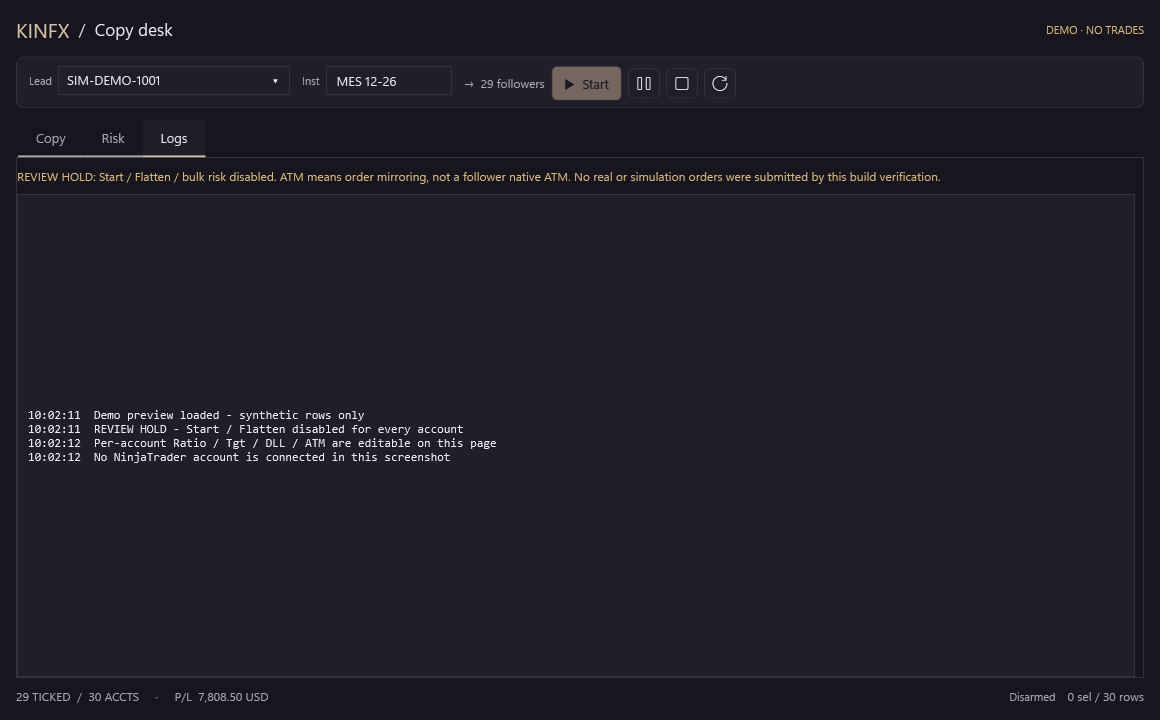
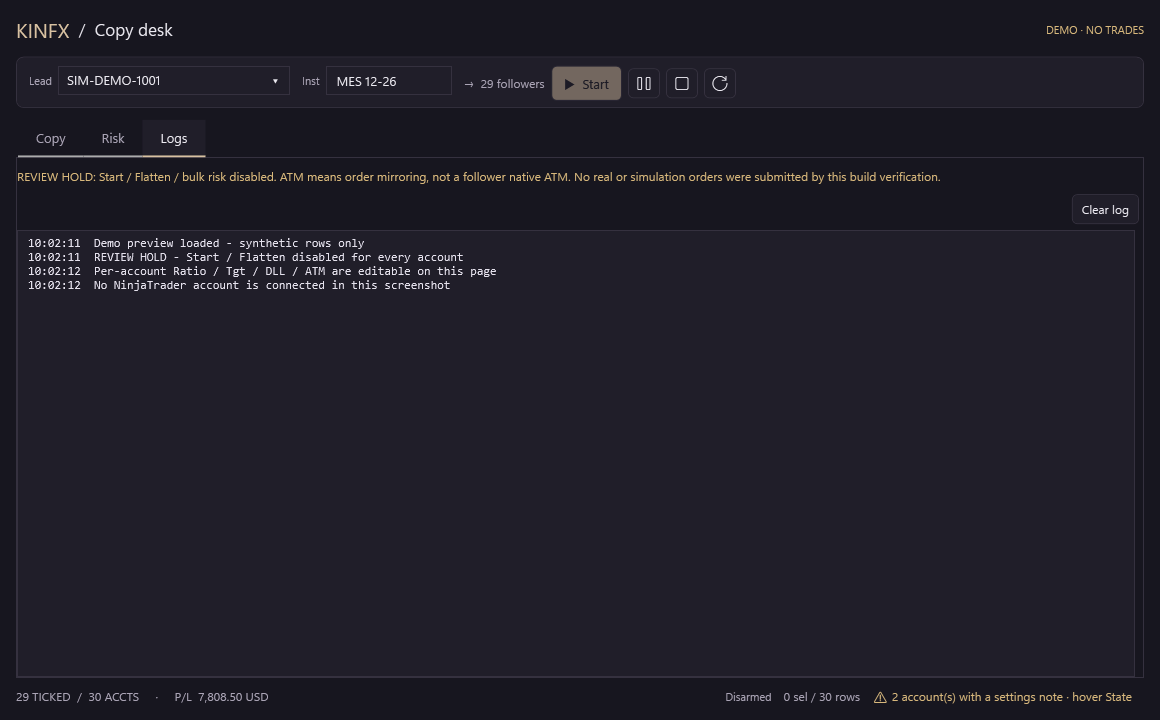
Settings notes (advisory), readable Logs + Clear log, Ratio-cell width test; screenshots refreshed

diff --git a/src/AddOns/KINFXTradeCopier.cs b/src/AddOns/KINFXTradeCopier.cs
@@ -27,6 +27,26 @@ namespace NinjaTrader.NinjaScript.AddOns.Kinfx
         public static bool CanExecute(string command)
         { return command!="start" && command!="flattenSelected" && command!="flattenAll" && command!="batch"; }
     }
+    // Advisory text for settings that are legal but easy to misread. Pure: no account, engine or dispatch access.
+    // Returns "" when there is nothing to say. Never blocks anything; it only informs.
+    public static class SettingsAdvice
+    {
+        public static string For(RiskSettings s,string role,int referenceLots)
+        {
+            if(s==null||role=="Leader")return "";
+            if(!RiskPolicy.Finite(s.Ratio)||s.Ratio<=0)return "Ratio is not a positive number";
+            var notes=new System.Collections.Generic.List<string>();
+            if(s.Target<=0&&s.Loss<=0)notes.Add("no daily target and no daily loss limit (0 = off)");
+            else if(s.Loss<=0)notes.Add("no daily loss limit (0 = off)");
+            else if(s.Target<=0)notes.Add("no daily target (0 = off)");
+            if(referenceLots>0)
+            {
+                if(RiskPolicy.Quantity(referenceLots,s.Ratio)==0)notes.Add("Ratio gives 0 lots for a "+referenceLots+"-lot leader order");
+                else if(s.MaxContracts>0&&RiskPolicy.Quantity(referenceLots,s.Ratio)>s.MaxContracts)notes.Add("size capped by Max "+s.MaxContracts);
+            }
+            return string.Join("; ",notes);
+        }
+    }
     // Bulk-edit helpers: pure input grammar only. No account, engine or dispatch access.
     public static class BulkEdit
     {
@@ -1037,7 +1057,10 @@ namespace NinjaTrader.NinjaScript.AddOns.Kinfx
         public string AccountSuffix {get{string n=Name??"";return n.Length>12?n.Substring(n.Length-4):"";}}
         public string StateLabel {get{return DisablePending?"Cancelling":FollowPending?"Rechecking":Latch.Locked?"Locked":Status=="Telemetry error"?"Error":Paused?"Paused":Role=="Leader"?"Leader":Status=="Active"&&Enabled?"Copying":Connection=="Disconnected"?"Offline":Status=="Demo only"?"Demo":Enabled?"Selected":"Off";}}
         public Brush StateInk {get{return DisablePending?DashboardView.Warn:Latch.Locked||Status=="Telemetry error"?DashboardView.Bad:StateLabel=="Copying"?DashboardView.Good:Paused?DashboardView.Warn:DashboardView.Muted;}}
-        public string StateDetail {get{return Name+" · "+Role+" · "+Status+(DisablePending?" · cancellation not confirmed":"")+(Latch.Locked?" · "+Latch.Reason:"")+" · "+Currency;}}
+        // Advisory only (never blocks). Reference lot size is the dashboard's current reference; see SettingsAdvice.
+        internal static int AdviceReferenceLots=2;
+        public string Advice {get{return SettingsAdvice.For(Settings,Role,AdviceReferenceLots);}}
+        public string StateDetail {get{return Name+" · "+Role+" · "+Status+(DisablePending?" · cancellation not confirmed":"")+(Latch.Locked?" · "+Latch.Reason:"")+(Advice.Length>0?" · NOTE: "+Advice:"")+" · "+Currency;}}
         public string Alias { get {return Settings.Alias;} set {Settings.Alias=value ?? "";} }
         public string Group { get {return Settings.Group;} set {Settings.Group=value ?? "";} }
         public double Ratio { get {return Settings.Ratio;} set {if(!RiskPolicy.Finite(value)||value<=0)throw new ArgumentException("This account Ratio must be finite and > 0");Settings.Ratio=value;Changed();} }
@@ -1068,12 +1091,14 @@ namespace NinjaTrader.NinjaScript.AddOns.Kinfx
         readonly ICollectionView view;
         readonly TextBox search;
         readonly ComboBox filter;
-        readonly TextBlock summary,selection;
+        readonly TextBlock summary,selection;TextBlock adviceLine;
         readonly bool demo;
         readonly List<Button> editButtons=new List<Button>(); StackPanel bulkBar;
         bool editable=true;
         public string SearchText {get{return search.Text;}set{search.Text=value;}}
         public int VisibleCount {get{return view.Cast<AccountRow>().Count();}}
+        public int AdviceCount {get{return Rows.Count(r=>r.Role!="Leader"&&r.Advice.Length>0);}}
+        public string AdviceText {get{int n=AdviceCount;return n==0?"":"⚠ "+n+" account(s) with a settings note · hover State";}}
         static Brush Brush(string c){var b=(Brush)new BrushConverter().ConvertFromString(c);b.Freeze();return b;}
         public static readonly Brush Ink=Brush("#ECEAF1"),Muted=Brush("#AAA4B5"),Panel=Brush("#201E29"),Line=Brush("#35313F"),Accent=Brush("#D8C1A1"),Canvas=Brush("#17161F"),Good=Brush("#83C7A3"),Warn=Brush("#D8B87C"),Bad=Brush("#D98792"),Off=Brush("#00514C5C");
         static TextBlock Text(string s,double size=12,Brush color=null){return new TextBlock{Text=s,FontSize=size,Foreground=color??Ink,VerticalAlignment=VerticalAlignment.Center};}
@@ -1219,8 +1244,8 @@ namespace NinjaTrader.NinjaScript.AddOns.Kinfx
             RiskGrid=GridTable();Column(RiskGrid,"Acct","Name",155,true,"Broker account");Column(RiskGrid,"Alias","Alias",115,false,"Display alias");Column(RiskGrid,"Grp","Group",90,false,"Account group");Column(RiskGrid,"Tgt","Target",85,false,"Daily local profit target · 0 = off",null,true);Column(RiskGrid,"DLL","Loss",85,false,"Daily loss limit · positive value / 0 = off",null,true);Column(RiskGrid,"Max","MaxContracts",60,false,"Maximum exact-instrument contracts",null,true);RatioColumn(RiskGrid);Column(RiskGrid,"P/L","Pnl",95,true,"Observed session P/L","N2",true);Column(RiskGrid,"CCY","Currency",55,true,"Account currency");Column(RiskGrid,"Tgt Δ","TargetRemaining",80,true,"Amount remaining to daily target",null,true);Column(RiskGrid,"DLL Δ","LossRemaining",80,true,"Loss headroom",null,true);Column(RiskGrid,"Qty","Position",50,true,"Signed position",null,true);Column(RiskGrid,"Conn","Connection",100,true,"Connection status");Column(RiskGrid,"St","Status",160,true,"Copier / risk state");Column(RiskGrid,"Preset","Preset",200,true,"Editable firm template");Column(RiskGrid,"Cons","ConsistencyAdvice",160,true,"Consistency advisory · not a broker guarantee");
             var action=new FrameworkElementFactory(typeof(Button));CompactCellButton(action,28);action.SetValue(Control.TemplateProperty,OffTemplate());action.SetValue(ContentControl.ContentProperty,"\uE713");action.SetValue(Control.FontFamilyProperty,new FontFamily("Segoe Fluent Icons, Segoe MDL2 Assets"));action.SetValue(Control.BackgroundProperty,Panel);action.SetValue(Control.ForegroundProperty,Ink);action.SetValue(Control.BorderBrushProperty,Line);action.SetValue(Control.PaddingProperty,new Thickness(4,1,4,1));action.SetValue(FrameworkElement.ToolTipProperty,"Account risk / template / history");var gearStyle=new Style(typeof(Button));var gearLocked=new DataTrigger{Binding=new Binding("IsReadOnly"){RelativeSource=new RelativeSource(RelativeSourceMode.FindAncestor,typeof(DataGrid),1)},Value=true};gearLocked.Setters.Add(new Setter(UIElement.IsEnabledProperty,false));gearStyle.Triggers.Add(gearLocked);action.SetValue(FrameworkElement.StyleProperty,gearStyle);action.AddHandler(ButtonBase.ClickEvent,new RoutedEventHandler((s,e)=>{if(!editable){e.Handled=true;return;}var r=(s as FrameworkElement).DataContext as AccountRow;if(r!=null&&RowSettings!=null)RowSettings(r);}));RiskGrid.Columns.Add(new DataGridTemplateColumn{Header="⚙",Width=40,CellTemplate=new DataTemplate{VisualTree=action}});AddRow(risk,RiskGrid,1);
             AddRow(risk,new TextBlock{Text="OFF cancels owned entries, retains exits · Re-follow explicit / only when clean · ATM OFF may be unprotected · Local guards only",Foreground=Muted,FontSize=11,TextWrapping=TextWrapping.Wrap,Margin=new Thickness(0,10,0,0)},2);Sections.Items.Add(new TabItem{Header="Risk",Content=risk});
-            var logPanel=new Grid();logPanel.RowDefinitions.Add(new RowDefinition{Height=GridLength.Auto});logPanel.RowDefinitions.Add(new RowDefinition{Height=new GridLength(1,GridUnitType.Star)});AddRow(logPanel,new TextBlock{Text="REVIEW HOLD: Start / Flatten / bulk risk disabled. ATM means order mirroring, not a follower native ATM. No real or simulation orders were submitted by this build verification.",Foreground=Warn,FontSize=12,TextWrapping=TextWrapping.Wrap,Margin=new Thickness(0,0,0,10)},0);LogBox=Input("",double.NaN);LogBox.IsReadOnly=true;LogBox.FontFamily=new FontFamily("Consolas");LogBox.FontSize=12;LogBox.VerticalScrollBarVisibility=ScrollBarVisibility.Auto;LogBox.HorizontalScrollBarVisibility=ScrollBarVisibility.Auto;AddRow(logPanel,LogBox,1);Sections.Items.Add(new TabItem{Header="Logs",Content=logPanel});Sections.SelectedIndex=0;
-            var footer=new DockPanel{Margin=new Thickness(0,10,0,0)};selection=Text("",12,Muted);DockPanel.SetDock(selection,Dock.Right);footer.Children.Add(selection);SessionText=Text("Disarmed",11,Muted);SessionText.Margin=new Thickness(12,0,12,0);DockPanel.SetDock(SessionText,Dock.Right);footer.Children.Add(SessionText);summary=Text("",12,Muted);footer.Children.Add(summary);AddRow(this,footer,3);
+            var logPanel=new Grid();logPanel.RowDefinitions.Add(new RowDefinition{Height=GridLength.Auto});logPanel.RowDefinitions.Add(new RowDefinition{Height=GridLength.Auto});logPanel.RowDefinitions.Add(new RowDefinition{Height=new GridLength(1,GridUnitType.Star)});AddRow(logPanel,new TextBlock{Text="REVIEW HOLD: Start / Flatten / bulk risk disabled. ATM means order mirroring, not a follower native ATM. No real or simulation orders were submitted by this build verification.",Foreground=Warn,FontSize=12,TextWrapping=TextWrapping.Wrap,Margin=new Thickness(0,0,0,10)},0);LogBox=Input("",double.NaN);LogBox.IsReadOnly=true;LogBox.FontFamily=new FontFamily("Consolas");LogBox.FontSize=12;LogBox.Foreground=Brush("#E4E1EC");LogBox.VerticalContentAlignment=VerticalAlignment.Top;LogBox.VerticalScrollBarVisibility=ScrollBarVisibility.Auto;LogBox.HorizontalScrollBarVisibility=ScrollBarVisibility.Auto;var logTools=new StackPanel{Orientation=Orientation.Horizontal,HorizontalAlignment=HorizontalAlignment.Right,Margin=new Thickness(0,0,0,6)};logTools.Children.Add(TextTool("Clear log","Clear this log view (does not affect settings, orders or saved latches)","logClear",()=>ClearLog()));AddRow(logPanel,logTools,1);AddRow(logPanel,LogBox,2);Sections.Items.Add(new TabItem{Header="Logs",Content=logPanel});Sections.SelectedIndex=0;
+            var footer=new DockPanel{Margin=new Thickness(0,10,0,0)};adviceLine=Text("",12,Warn);adviceLine.Margin=new Thickness(12,0,12,0);DockPanel.SetDock(adviceLine,Dock.Right);footer.Children.Add(adviceLine);selection=Text("",12,Muted);DockPanel.SetDock(selection,Dock.Right);footer.Children.Add(selection);SessionText=Text("Disarmed",11,Muted);SessionText.Margin=new Thickness(12,0,12,0);DockPanel.SetDock(SessionText,Dock.Right);footer.Children.Add(SessionText);summary=Text("",12,Muted);footer.Children.Add(summary);AddRow(this,footer,3);
             Rows.CollectionChanged+=(s,e)=>{if(e.OldItems!=null)foreach(AccountRow r in e.OldItems)r.FollowRequested-=OnFollowRequested;if(e.NewItems!=null)foreach(AccountRow r in e.NewItems)r.FollowRequested+=OnFollowRequested;};view=CollectionViewSource.GetDefaultView(Rows);view.Filter=Matches;AccountGrid.ItemsSource=view;RiskGrid.ItemsSource=view;
             PreviewKeyDown+=(s,e)=>{if(e.Key==System.Windows.Input.Key.F&&System.Windows.Input.Keyboard.Modifiers==System.Windows.Input.ModifierKeys.Control){FocusSearch();e.Handled=true;}else if(e.Key==System.Windows.Input.Key.Escape&&search.IsKeyboardFocusWithin){SearchText="";e.Handled=true;}};search.TextChanged+=(s,e)=>{view.Refresh();UpdateCards();};filter.SelectionChanged+=(s,e)=>{view.Refresh();UpdateCards();};group.Checked+=(s,e)=>GroupByAccount=true;group.Unchecked+=(s,e)=>GroupByAccount=false;ShowLive.Checked+=(s,e)=>Send("refresh");ShowLive.Unchecked+=(s,e)=>Send("refresh");AccountGrid.SelectionChanged+=(s,e)=>UpdateCards();RiskGrid.SelectionChanged+=(s,e)=>UpdateCards();Sections.SelectionChanged+=(s,e)=>{if(summary!=null)UpdateCards();};
             if(demo){for(int i=1;i<=30;i++)Rows.Add(new AccountRow{Name="Demo "+i.ToString("00"),Alias="Eval "+i,Group=i<=10?"Tradeify":i<=20?"Lucid":"Topstep",Role=i==1?"Leader":"Follower",Connection="Synthetic",Enabled=i>1,Currency="USD",Status=i%7==0?"Target hit":i%4==0?"Paused":"Demo only",Paused=i%4==0,Pnl=i%4==0?-120:i*24.5,Settings=new RiskSettings{Alias="Eval "+i,Group=i<=10?"Tradeify":i<=20?"Lucid":"Topstep",Target=1000,Loss=500,Ratio=1,MaxContracts=4,Preset="Demo / not broker data"}});LeaderBox.ItemsSource=new[]{"Demo 01"};LeaderBox.SelectedIndex=0;ShowLive.IsEnabled=false;}UpdateCards();
@@ -1276,13 +1301,14 @@ namespace NinjaTrader.NinjaScript.AddOns.Kinfx
             foreach(var r in targets){r.Target=tgt;r.Loss=dll;r.CopyAtm=atm;r.Changed();}
             UpdateCards();return null;
         }
+        public void ClearLog(){LogBox.Text="";}
         public bool BulkBarPresent{get{return bulkBar!=null&&AccountGrid.Parent!=null;}}
         internal Action<string> BulkNotice;
         void BulkLeaderClick(){var reason=BulkFromLeader();var n=BulkNotice;if(n!=null)n(reason==null?"Copied leader Tgt / DLL / ATM to followers (one-time); Ratio and ticks unchanged. Edit any row to fine-tune.":"From Leader refused: "+reason);}
         void BulkClick(string field,string text){var reason=BulkApply(field,text);var n=BulkNotice;if(n!=null)n(reason==null?"Bulk "+field+" applied to highlighted followers; Ratio and ticks unchanged.":"Bulk "+field+" refused: "+reason);}
         public void SetSelectedPause(bool paused){foreach(var r in SelectedRows().Where(r=>r.CanFollow)){if(!demo&&PauseRow!=null)PauseRow(r,paused);else{r.Paused=paused;r.Changed();}}UpdateCards();}
         public AccountRow[] SelectedRows(){return (Sections.SelectedIndex==1?RiskGrid:AccountGrid).SelectedItems.Cast<AccountRow>().ToArray();}
-        public void UpdateCards(){if(summary==null)return;FollowCountText.Text="→  "+Rows.Count(r=>r.Enabled&&r.Role!="Leader")+" followers  ";var ccy=Rows.Select(r=>r.Currency).Where(s=>!string.IsNullOrEmpty(s)).Distinct().ToArray();summary.Text=Rows.Count(r=>r.Enabled&&r.Role!="Leader")+" TICKED  /  "+Rows.Count+" ACCTS     ·     P/L  "+(ccy.Length<=1?Rows.Sum(r=>RiskPolicy.Finite(r.Pnl)?r.Pnl:0).ToString("N2")+" "+ccy.FirstOrDefault():"Mixed CCY")+"";selection.Text=SelectedRows().Length+" sel / "+VisibleCount+" rows";}
+        public void UpdateCards(){if(summary==null)return;FollowCountText.Text="→  "+Rows.Count(r=>r.Enabled&&r.Role!="Leader")+" followers  ";var ccy=Rows.Select(r=>r.Currency).Where(s=>!string.IsNullOrEmpty(s)).Distinct().ToArray();summary.Text=Rows.Count(r=>r.Enabled&&r.Role!="Leader")+" TICKED  /  "+Rows.Count+" ACCTS     ·     P/L  "+(ccy.Length<=1?Rows.Sum(r=>RiskPolicy.Finite(r.Pnl)?r.Pnl:0).ToString("N2")+" "+ccy.FirstOrDefault():"Mixed CCY")+"";selection.Text=SelectedRows().Length+" sel / "+VisibleCount+" rows";if(adviceLine!=null)adviceLine.Text=AdviceText;}
         internal bool TrySetSessionState(bool attached,string status,int callbackSession,int currentSession,bool currentAttached){if(callbackSession!=currentSession||attached!=currentAttached)return false;SetSessionState(attached,status);return true;}
         internal void SetSessionState(bool attached,string status){if(!attached)foreach(var row in Rows)row.InvalidateSessionActivity();SessionText.Text=DashboardSafety.CanExecute("start")?status:(attached?"REVIEW HOLD · unexpected attachment":"Disarmed");SessionText.ToolTip=status;Editable(!attached);UpdateCards();}
         internal void Editable(bool canEdit){editable=canEdit;LeaderBox.IsEnabled=canEdit;InstrumentBox.IsEnabled=canEdit;ShowLive.IsEnabled=canEdit&&!demo;AccountGrid.IsReadOnly=!canEdit;RiskGrid.IsReadOnly=!canEdit;foreach(var b in editButtons)b.IsEnabled=canEdit;StartButton.IsEnabled=canEdit&&!demo&&DashboardSafety.CanExecute("start");}

diff --git a/tests/BulkUiTests.cs b/tests/BulkUiTests.cs
@@ -92,10 +92,62 @@ public static class BulkUiTests {
   var v=Fresh();int follow=0;v.FollowRow=(r,on)=>follow++;SetLeader(v,2000,800,true);Select(v,1,2);v.BulkFromLeader();
   Check(follow==0,"must not call follow/engine path");Check(!v.StartButton.IsEnabled,"Start stays held");
  }
+ static void AdviceShownPerRowAndCounted(){
+  var v=Fresh();
+  Check(v.AdviceCount==0,"fixture rows all have Tgt/DLL so no warnings; count="+v.AdviceCount);
+  v.Rows[1].Target=0;v.Rows[1].Loss=0;v.Rows[1].Changed();v.UpdateCards();
+  Check(v.Rows[1].Advice.Contains("no daily"),"row shows advice: "+v.Rows[1].Advice);
+  Check(v.AdviceCount==1,"count=1 after one risky row; got "+v.AdviceCount);
+  Check(v.SelectionSummary.Length>0,"footer present");
+  Check(v.AdviceText.Contains("1"),"footer advice text mentions the count: "+v.AdviceText);
+  v.Rows[1].Target=1000;v.Rows[1].Loss=500;v.Rows[1].Changed();v.UpdateCards();
+  Check(v.Rows[1].Advice==""&&v.AdviceCount==0,"advice clears when fixed");
+ }
+ static void AdviceUpdatesAfterBulkApply(){
+  var v=Fresh();v.AccountGrid.UnselectAll();v.AccountGrid.SelectedItems.Add(v.Rows[2]);v.AccountGrid.SelectedItems.Add(v.Rows[3]);
+  Check(v.BulkApply("DLL","0")==null,"apply");
+  Check(v.AdviceCount==2,"two rows lost their loss limit; count="+v.AdviceCount);
+  Check(v.Rows[2].Advice.Contains("no daily loss"),"row2 advice: "+v.Rows[2].Advice);
+ }
+ static void AdviceNeverBlocksOrChangesSettings(){
+  var v=Fresh();v.Rows[1].Target=0;v.Rows[1].Loss=0;v.Rows[1].Changed();v.UpdateCards();
+  Check(v.Rows[1].Target==0&&v.Rows[1].Loss==0,"advice must not alter the values");
+  Check(!v.StartButton.IsEnabled,"Start stays held regardless of advice");
+  Check(v.Rows[0].Advice=="","leader row never gets follower advice");
+ }
+ static System.Collections.Generic.IEnumerable<T> Visual<T>(DependencyObject d) where T:DependencyObject{for(int i=0;i<System.Windows.Media.VisualTreeHelper.GetChildrenCount(d);i++){var c=System.Windows.Media.VisualTreeHelper.GetChild(d,i);if(c is T)yield return (T)c;foreach(var n in Visual<T>(c))yield return n;}}
+ static void RatioCellFitsCommonValuesAt1160(){
+  var v=Fresh();
+  var host=new System.Windows.Controls.Border{Child=v};host.Measure(new Size(1160,720));host.Arrange(new Rect(0,0,1160,720));host.UpdateLayout();System.Windows.Threading.Dispatcher.CurrentDispatcher.Invoke(System.Windows.Threading.DispatcherPriority.ContextIdle,new Action(()=>{}));host.UpdateLayout();
+  var col=v.AccountGrid.Columns.Single(c=>(string)c.Header=="Ratio");
+  v.Rows[1].Ratio=0.125;v.Rows[2].Ratio=12.5;v.Rows[3].Ratio=100;host.UpdateLayout();
+  foreach(int i in new[]{1,2,3}){
+   var cell=col.GetCellContent(v.Rows[i]);if(cell==null){v.AccountGrid.ScrollIntoView(v.Rows[i]);host.UpdateLayout();cell=col.GetCellContent(v.Rows[i]);}
+   Check(cell!=null,"Ratio cell realized for row "+i);
+   var tb=Visual<TextBox>(cell).FirstOrDefault()??cell as TextBox;Check(tb!=null,"Ratio TextBox found");
+   var ft=new System.Windows.Media.FormattedText(tb.Text,System.Globalization.CultureInfo.InvariantCulture,FlowDirection.LeftToRight,new System.Windows.Media.Typeface(tb.FontFamily,tb.FontStyle,tb.FontWeight,tb.FontStretch),tb.FontSize,System.Windows.Media.Brushes.White);
+   double need=ft.Width+tb.Padding.Left+tb.Padding.Right+tb.BorderThickness.Left+tb.BorderThickness.Right+2;
+   Check(tb.ActualWidth+0.5>=need,"Ratio text '"+tb.Text+"' needs "+need.ToString("0.0")+"px but the box is "+tb.ActualWidth.ToString("0.0")+"px (column "+col.ActualWidth.ToString("0.0")+")");
+  }
+ }
+ static void LogsReadableAndTopAligned(){
+  var v=Fresh();
+  var fg=v.LogBox.Foreground as System.Windows.Media.SolidColorBrush;Check(fg!=null,"log text uses a solid brush");
+  double lum=(0.2126*fg.Color.R+0.7152*fg.Color.G+0.0722*fg.Color.B)/255.0;
+  Check(lum>=0.80,"log text must be bright enough to read on the dark panel; luminance="+lum.ToString("0.00"));
+  Check(v.LogBox.VerticalContentAlignment==VerticalAlignment.Top,"log text starts at the top, not the bottom; is "+v.LogBox.VerticalContentAlignment);
+  Check(v.LogBox.IsReadOnly,"log stays read-only");
+ }
+ static void LogClearWorksAndIsEditableIndependent(){
+  var v=Fresh();v.LogBox.Text="a"+Environment.NewLine+"b";v.ClearLog();
+  Check(v.LogBox.Text=="","clear empties the log");
+  v.Editable(false);v.LogBox.Text="x";v.ClearLog();Check(v.LogBox.Text=="","clearing the log is allowed while attached/held (it is not a setting)");
+  Check(!v.StartButton.IsEnabled,"Start stays held");
+ }
  [STAThread] public static int Main(string[] args){
   try{
    AppDomain.CurrentDomain.AssemblyResolve+=(s,e)=>{string n=e.Name.Split(',')[0];if(n.EndsWith(".resources"))return null;var loaded=AppDomain.CurrentDomain.GetAssemblies().FirstOrDefault(a=>a.GetName().Name==n);if(loaded!=null)return loaded;string p=System.IO.Path.Combine("C:/Program Files/NinjaTrader 8/bin",n+".dll");return System.IO.File.Exists(p)?System.Reflection.Assembly.LoadFrom(p):null;};
-   var all=new Action[]{TargetAndLossApplyToSelectedOnly,ZeroTurnsLimitOff,RatioStaysIndependent,InvalidInputChangesNothing,NoSelectionIsRefused,LeaderIsNotEdited,AtmToggleBulk,LockedWhenNotEditable,NeverTouchesFollowOrTrading,BarIsOnCopyTabAndKeepsHolds,FromLeaderCopiesToHighlighted,FromLeaderWithoutHighlightHitsAllVisibleFollowers,FromLeaderRespectsSearchFilter,FromLeaderKeepsRatioTickAndOtherFields,ManualEditAfterwardsSticksAndNoLiveLink,FromLeaderRefusedWhenLockedOrNoLeader,FromLeaderNeverTouchesFollowOrTrading};
+   var all=new Action[]{TargetAndLossApplyToSelectedOnly,ZeroTurnsLimitOff,RatioStaysIndependent,InvalidInputChangesNothing,NoSelectionIsRefused,LeaderIsNotEdited,AtmToggleBulk,LockedWhenNotEditable,NeverTouchesFollowOrTrading,BarIsOnCopyTabAndKeepsHolds,FromLeaderCopiesToHighlighted,FromLeaderWithoutHighlightHitsAllVisibleFollowers,FromLeaderRespectsSearchFilter,FromLeaderKeepsRatioTickAndOtherFields,ManualEditAfterwardsSticksAndNoLiveLink,FromLeaderRefusedWhenLockedOrNoLeader,FromLeaderNeverTouchesFollowOrTrading,AdviceShownPerRowAndCounted,AdviceUpdatesAfterBulkApply,AdviceNeverBlocksOrChangesSettings,RatioCellFitsCommonValuesAt1160,LogsReadableAndTopAligned,LogClearWorksAndIsEditableIndependent};
    int failed=0;foreach(var a in all){try{a();Console.WriteLine("PASS "+a.Method.Name);}catch(Exception ex){failed++;Console.WriteLine("FAIL "+a.Method.Name+" :: "+ex.Message);}}
    return failed==0?0:1;
   }catch(Exception ex){Console.WriteLine("HARNESS "+ex);return 2;}

diff --git a/tests/RiskTests.cs b/tests/RiskTests.cs
@@ -2,7 +2,7 @@ using System;
 using NinjaTrader.NinjaScript.AddOns.Kinfx;
 class RiskTests {
  static int Main(string[] args) {
-  try { Eq(false,DashboardSafety.CanExecute("start")); Eq(false,DashboardSafety.CanExecute("flattenSelected")); Eq(false,DashboardSafety.CanExecute("flattenAll")); Eq(false,DashboardSafety.CanExecute("batch")); Eq(true,DashboardSafety.CanExecute("refresh")); BulkAmount(); Console.WriteLine("PASS bulk amount grammar"); Quantity(); Console.WriteLine("PASS quantity"); Risk(); Console.WriteLine("PASS risk latch / exits / finite / DST"); Persistence(); Console.WriteLine("PASS XML atomic roundtrip"); Worker(); Console.WriteLine("PASS serial reentrancy + ownership"); Ledger(); Console.WriteLine("PASS lifecycle decisions / dedupe / reservation"); Presets(); Console.WriteLine("PASS sourced editable presets"); ChangePolicy(); Console.WriteLine("PASS locked reductions / partial exit totals"); DurableLock(); Console.WriteLine("PASS durable global latches / unlock recheck / advisory"); return 0; }
+  try { Eq(false,DashboardSafety.CanExecute("start")); Eq(false,DashboardSafety.CanExecute("flattenSelected")); Eq(false,DashboardSafety.CanExecute("flattenAll")); Eq(false,DashboardSafety.CanExecute("batch")); Eq(true,DashboardSafety.CanExecute("refresh")); BulkAmount(); Console.WriteLine("PASS bulk amount grammar"); SettingsWarnings(); Console.WriteLine("PASS settings warnings"); Quantity(); Console.WriteLine("PASS quantity"); Risk(); Console.WriteLine("PASS risk latch / exits / finite / DST"); Persistence(); Console.WriteLine("PASS XML atomic roundtrip"); Worker(); Console.WriteLine("PASS serial reentrancy + ownership"); Ledger(); Console.WriteLine("PASS lifecycle decisions / dedupe / reservation"); Presets(); Console.WriteLine("PASS sourced editable presets"); ChangePolicy(); Console.WriteLine("PASS locked reductions / partial exit totals"); DurableLock(); Console.WriteLine("PASS durable global latches / unlock recheck / advisory"); return 0; }
   catch(Exception ex) { Console.WriteLine("FAIL "+ex.Message); return 1; }
  }
  static void Eq(object want,object got) { if(!want.Equals(got)) throw new Exception("expected "+want+" got "+got); }
@@ -14,6 +14,28 @@ class RiskTests {
   Eq(true,BulkEdit.TryParseAmount("-0",out v)); Eq(true,double.IsPositiveInfinity(1.0/v));
   foreach(string bad in new[]{"","  ","abc","-1","NaN","Infinity","1e400","1,000","0,125","1 000","12abc","--5"}) Eq(false,BulkEdit.TryParseAmount(bad,out v));
   Eq(false,BulkEdit.TryParseAmount(null,out v));
+ }
+ static void SettingsWarnings() {
+  var ok=new RiskSettings{Ratio=1,Target=1000,Loss=500,MaxContracts=4};
+  Eq("",SettingsAdvice.For(ok,"Follower",2));
+  Eq("",SettingsAdvice.For(ok,"Leader",2));
+  var noLimits=new RiskSettings{Ratio=1,Target=0,Loss=0,MaxContracts=4};
+  Eq(true,SettingsAdvice.For(noLimits,"Follower",2).Contains("no daily"));
+  var noLoss=new RiskSettings{Ratio=1,Target=1000,Loss=0,MaxContracts=4};
+  Eq(true,SettingsAdvice.For(noLoss,"Follower",2).Contains("no daily loss"));
+  var noTgt=new RiskSettings{Ratio=1,Target=0,Loss=500,MaxContracts=4};
+  Eq(true,SettingsAdvice.For(noTgt,"Follower",2).Contains("no daily target"));
+  var tiny=new RiskSettings{Ratio=0.2,Target=1000,Loss=500,MaxContracts=4};
+  Eq(true,SettingsAdvice.For(tiny,"Follower",2).Contains("0 lots"));
+  Eq(true,SettingsAdvice.For(tiny,"Follower",5).Equals(""));
+  var cap=new RiskSettings{Ratio=3,Target=1000,Loss=500,MaxContracts=4};
+  Eq(true,SettingsAdvice.For(cap,"Follower",2).Contains("capped"));
+  Eq(true,SettingsAdvice.For(new RiskSettings{Ratio=double.NaN,Target=1,Loss=1,MaxContracts=4},"Follower",2).Contains("Ratio"));
+  Eq("",SettingsAdvice.For(null,"Follower",2));
+  // leader rows never get follower advice
+  Eq("",SettingsAdvice.For(noLimits,"Leader",2));
+  // reference lot size must be positive: unknown reference gives no lot warning
+  Eq("",SettingsAdvice.For(tiny,"Follower",0));
  }
  static void Risk() {
   var s = new RiskSettings { Target=100, Loss=50, MaxContracts=4 };

diff --git a/docs/screenshots/Screenshots.cs b/docs/screenshots/Screenshots.cs
@@ -14,6 +14,9 @@ public static class Screenshots {
    string outDir=args[0];
    var view=new DashboardView(true);
    for(int i=0;i<view.Rows.Count;i++){view.Rows[i].Name="SIM-DEMO-"+(1001+i).ToString();view.Rows[i].Alias=i==0?"Leader":"Eval "+i.ToString("00");view.Rows[i].Changed();}
+   // Two deliberately risky synthetic rows so the settings-note footer is visible in the picture.
+   view.Rows[3].Target=0;view.Rows[3].Loss=0;view.Rows[3].Changed();
+   view.Rows[5].Ratio=0.2;view.Rows[5].Changed();
    view.LeaderBox.ItemsSource=new[]{view.Rows[0].Name};view.LeaderBox.SelectedIndex=0;view.UpdateCards();
    view.LogBox.Text=string.Join(Environment.NewLine,new[]{"10:02:11  Demo preview loaded - synthetic rows only","10:02:11  REVIEW HOLD - Start / Flatten disabled for every account","10:02:12  Per-account Ratio / Tgt / DLL / ATM are editable on this page","10:02:12  No NinjaTrader account is connected in this screenshot"});
    var host=new Border{Background=DashboardView.Canvas,Child=view};

diff --git a/tests/test_tooling.py b/tests/test_tooling.py
@@ -70,7 +70,7 @@ class RunnerTests(unittest.TestCase):
         text = 'class X { static void Main(string[] args) {} static void Eq(bool x) {} static void First() {} static void Second() {} }'
         self.assertEqual(['First', 'Second'], m.case_names(text))
         risk = (ROOT / 'tests/RiskTests.cs').read_text(encoding='utf-8')
-        self.assertEqual(9, len(m.case_names(risk)))
+        self.assertEqual(10, len(m.case_names(risk)))
         self.assertTrue(hasattr(m, 'pure_extra_source'), 'original risk Main UI hold assertions need an independent case')
         self.assertIn('DashboardCommandsRemainHeld', m.pure_extra_source())
         independent = (ROOT / 'tests/EngineIndependentReview.cs').read_text(encoding='utf-8')

diff --git a/docs/TEST-MATRIX.md b/docs/TEST-MATRIX.md
@@ -28,7 +28,7 @@ Evidence IDs refer to sanitized records in [EVIDENCE.json](EVIDENCE.json). Raw l
 | ON and cancellation frontier | Corrected parent replay distinguishes separate ON, OCO and composed clones. Later cancellation candidate: independent9 9 PASS, additional3 3 PASS, frontier9 9 PASS; paired baseline failures retained. [E03, E10] | **Scoped fix not integrated.** Local final gate does not establish broker atomicity. |
 | Group OCO completion | `ReviewOcoCompletedSliceCancelOnlyItsGroup` remains FAIL on frozen and cancellation candidates; OCO10 is 9 PASS / 1 FAIL on each. Duplicate occurrence in the group fixture is not a second defect. [E03] | **Known product defect on repair clones; still unresolved.** Pure certificate algebra does not repair it. |
 | Public baseline C# runner (`scripts/offline.py`) | Source `32de3089…`: pure 9 PASS / 0 FAIL; engine 100 PASS / 2 FAIL (incl. 6 F01 and 2 user-misuse cases); independent 24 PASS / 1 FAIL; full AddOn compile-only OK (never executed). Engine failures: `FlatWorkingExits`, `FailedFlattenKeepsProtection` (old-oracle vs current-policy conflict, [#9](https://github.com/Kinfxhk/KINFXTradeCopier/issues/9)). Independent failure: `ExplicitManualFlatReconciliationAvailable` (missing verified-flat recovery seam, [#6](https://github.com/Kinfxhk/KINFXTradeCopier/issues/6)). | Synthetic fakes only. Three fixture callback gaps were fixed in the tests (89P/5F → 92P/2F); see KNOWN-ISSUES. Not provider acceptance. |
-| Bulk Tgt / DLL / ATM bar (UI, synthetic Demo) | `BulkUiTests.cs` 17 PASS (7 for **From Leader**: copies leader Tgt/DLL/ATM once to highlighted or all visible followers, respects search filter, no live link, Ratio/tick untouched, refused when locked or no leader): selected followers only, leader skipped, Ratio untouched, invalid input changes nothing, locked when not editable, never calls follow/engine, Start stays held. `RiskTests.cs` BulkAmount PASS. Old `UiSmoke` still PASS (13 Copy columns, all holds). | Source `63994edb…`. Synthetic rows, no account or engine. Real NT window, real DPI and persistence of bulk-edited values across a real save/reopen are untested. |
+| Bulk Tgt / DLL / ATM bar (UI, synthetic Demo) | `BulkUiTests.cs` 23 PASS (adds: per-row settings notes and footer count, notes update after bulk apply, notes never block or change values, Ratio cell fits 0.125 / 12.5 / 100 at 1160px, Logs text bright and top-aligned, Clear log) (7 for **From Leader**: copies leader Tgt/DLL/ATM once to highlighted or all visible followers, respects search filter, no live link, Ratio/tick untouched, refused when locked or no leader): selected followers only, leader skipped, Ratio untouched, invalid input changes nothing, locked when not editable, never calls follow/engine, Start stays held. `RiskTests.cs` BulkAmount and SettingsWarnings PASS. Old `UiSmoke` still PASS (13 Copy columns, all holds). | Source `07e0e46c…`. Synthetic rows, no account or engine. Real NT window, real DPI and persistence of bulk-edited values across a real save/reopen are untested. |
 | Mailbox / Dispose / HOL | Owner fake vectors retain hard-bound, rejected-Post and accepted-callback Dispose failures; synthetic scale130 remains 63 PASS / 67 FAIL on base and ON candidate. Parent p94b readback of reviewer130 is not its own rerun. [E10, E13] | **Known fake-engine residuals**, not 67 independent bugs. Real account latency remains unknown. |
 | Membership / settings | Parent membership candidate: alias4 4 PASS; collection22 22 PASS. Reentry12 remains 6 PASS / 6 FAIL. [E03] | **Scoped membership fix not integrated**; publication policy unresolved. |
 | Nested publication adjudication | Fresh 55 invocations: 41 PASS / 14 FAIL. Six broad rollback failures, six proposed whole-root-policy RED, one strict-zero-transient RED and one raw XML ordering FAIL are retained. Equal field maps and disk/index bytes distinguish the last case. [E05] | **Oracle / policy / representation distinctions**, not fourteen confirmed corruption bugs. |

diff --git a/README.md b/README.md
@@ -18,7 +18,7 @@ The intended later flow is Leader → tick followers → set each Ratio → Star
 
 Rendered from the real `DashboardView` in synthetic DEMO mode: no NinjaTrader account, no engine, no orders. Start/Flatten are disabled in this alpha. Names are fake. Source: [`docs/screenshots/Screenshots.cs`](docs/screenshots/Screenshots.cs). Balances/P&L are made-up demo values; unknown cash is shown as an unavailable dash. These are 1160x720 offscreen renders, not a real NinjaTrader window, so fonts/DPI can differ. An automated visual read suggested the Ratio column may be tight at this width; see [#8](https://github.com/Kinfxhk/KINFXTradeCopier/issues/8).
 
-Copy tab: per-account Ratio / Tgt / DLL / ATM / OFF are editable in each row, and the **Bulk** bar sets Tgt, DLL or ATM on all highlighted followers at once, and **From Leader** copies the leader row's Tgt / DLL / ATM to them as a one-time default you can then fine-tune per row (Ratio and ticks are never touched). Self-managed per-account TP/SL is not implemented yet: [#10](https://github.com/Kinfxhk/KINFXTradeCopier/issues/10).
+Copy tab: per-account Ratio / Tgt / DLL / ATM / OFF are editable in each row, and the **Bulk** bar sets Tgt, DLL or ATM on all highlighted followers at once, and **From Leader** copies the leader row's Tgt / DLL / ATM to them as a one-time default you can then fine-tune per row (Ratio and ticks are never touched). Rows with legal-but-risky settings (no daily limit, a Ratio that gives 0 lots, size capped by Max) get a settings note on the State cell and a count in the footer; it only informs, it never blocks. Self-managed per-account TP/SL is not implemented yet: [#10](https://github.com/Kinfxhk/KINFXTradeCopier/issues/10).
 
 | Copy | Risk | Logs |
 |---|---|---|

diff --git a/docs/SAFETY-HOLD.md b/docs/SAFETY-HOLD.md
@@ -175,6 +175,8 @@ unchanged separately from this public-source proof.
 
 `32de3089…` above is the hold-hardening revision and the base for the recorded RED/GREEN runs. Later UI-only commits change the source hash but not the hold:
 
[2 lines of base64/hex data omitted]
 
 The bulk bar edits highlighted follower rows only, validates before mutating, never touches Ratio, the follow tick, latches or any engine path, and is disabled while attached. Start / Flatten / the old `batch` dialog remain held (`tests/test_production_hold.py` and `BulkUiTests.cs` `NeverTouchesFollowOrTrading`).
+
+- Settings notes (`SettingsAdvice`, advisory only, never blocks), Logs readability/Clear-log button, Ratio-cell width test. Same source hash as above.
